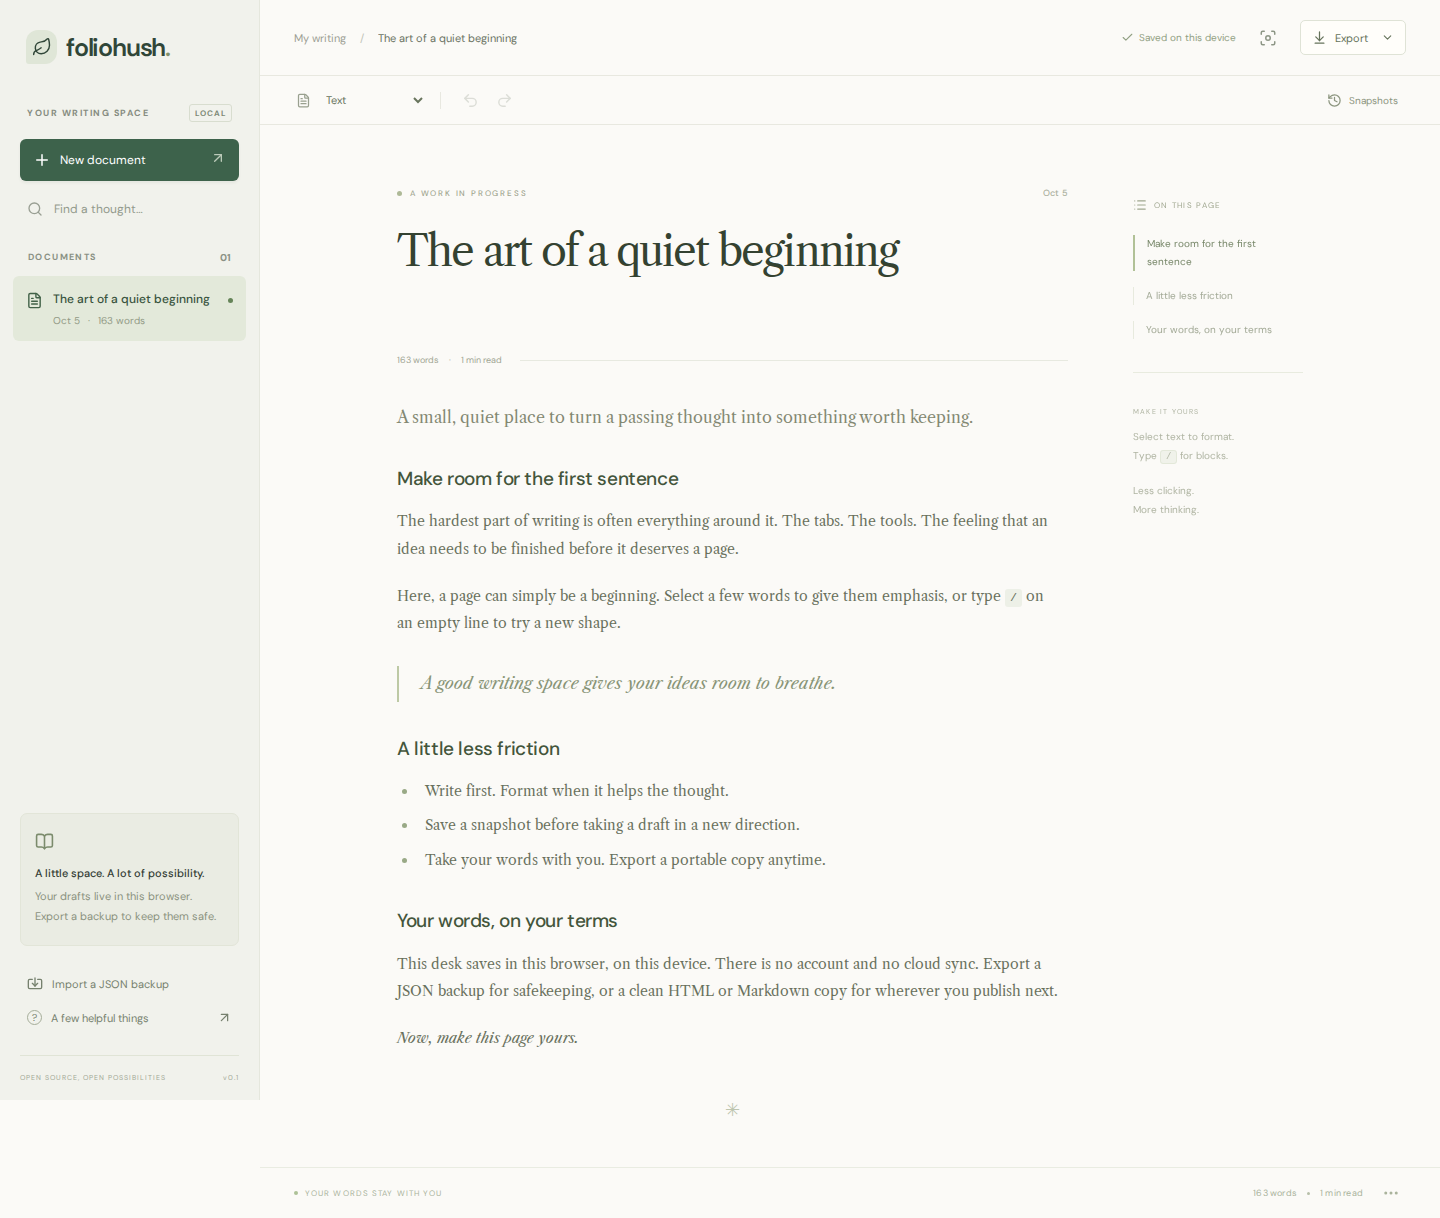
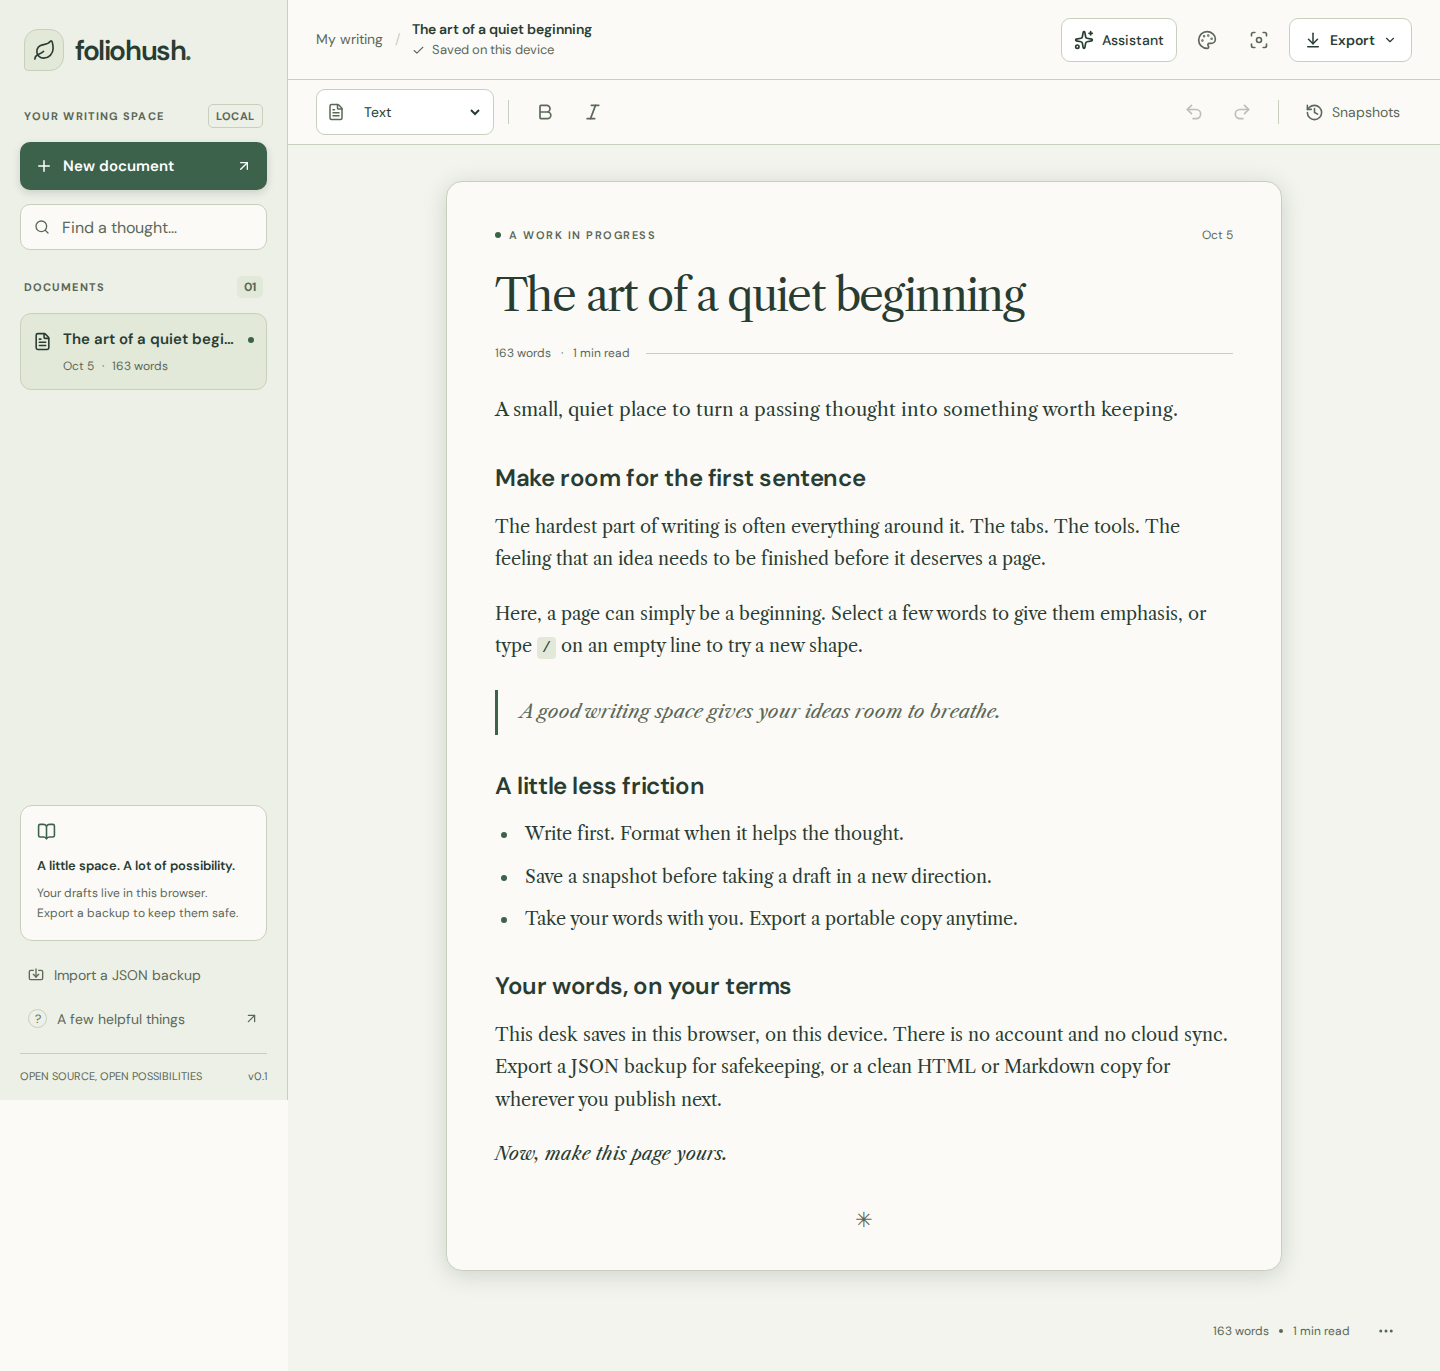
Record verified redesign coverage and refresh workspace screenshots

diff --git a/docs/verification.md b/docs/verification.md
@@ -1,8 +1,8 @@
 # Verification record
 
-## Workspace redesign verification: pending
+## Workspace redesign verification
 
-The usability redesign adds larger primary controls, readable interface and document text, persistent Bold/Italic controls, content-sized titles, labeled workspace actions, and a responsive assistant. The coverage being added targets:
+The usability redesign adds larger primary controls, readable interface and document text, persistent Bold/Italic controls, content-sized titles, labeled workspace actions, and a responsive assistant. The added coverage targets:
 
 - 44 px primary hit areas and readable computed font sizes at desktop and mobile viewports
 - Persistent Bold/Italic behavior alongside selection formatting and keyboard shortcuts
@@ -11,7 +11,11 @@ The usability redesign adds larger primary controls, readable interface and docu
 - Phone-sized assistant sheets with a fixed close control, an internally scrolling preview, and reachable Apply/Reject actions
 - Desktop/mobile screenshot regression captures for the writing surface and the open assistant, including long preview content
 
-These are coverage additions, not a report of passing results. The current redesign has no CI result recorded here yet. Run the checks against the final revision and visually inspect its screenshots before marking it verified. Historical theme-release screenshots and passes below do not establish the redesigned layout's behavior.
+[CI run 37349994848](https://github.com/loufengzh/foliohush/actions/runs/37349994848) passed at source commit [`7a2f45d`](https://github.com/loufengzh/foliohush/commit/7a2f45da00902322f4b97418f411a9c032dd5f31): **130 unit/jsdom tests, 23 gateway tests, and 111 Chromium browser cases**, with 7 intentional project-specific skips. Type checking and production build also passed. The viewport matrix covers 360, 412, 768, 1024, and 1440 px; rail tests additionally cover 1280 px.
+
+Fresh [desktop](screenshots/desktop.png), [mobile](screenshots/mobile.png), [desktop assistant](screenshots/assistant-desktop.png), and [mobile assistant](screenshots/assistant-mobile.png) captures were inspected. Screenshot review caught conditional navigation controls appearing in the wrong modes; dedicated regressions now cover the corrected visibility and focus transitions. Long-title header overflow and undersized search text were corrected without weakening the checks.
+
+Local formatting, type checking, and production build passed. Local unit execution was interrupted after severe host delays and timeouts; it is **not** reported as passing. The full unit, gateway, and real-browser results above come from GitHub Actions. This verifies the named source revision; subsequent changes need their own CI result. Mobile emulation remains distinct from physical-device testing.
 
 ## Theme release verification
 
